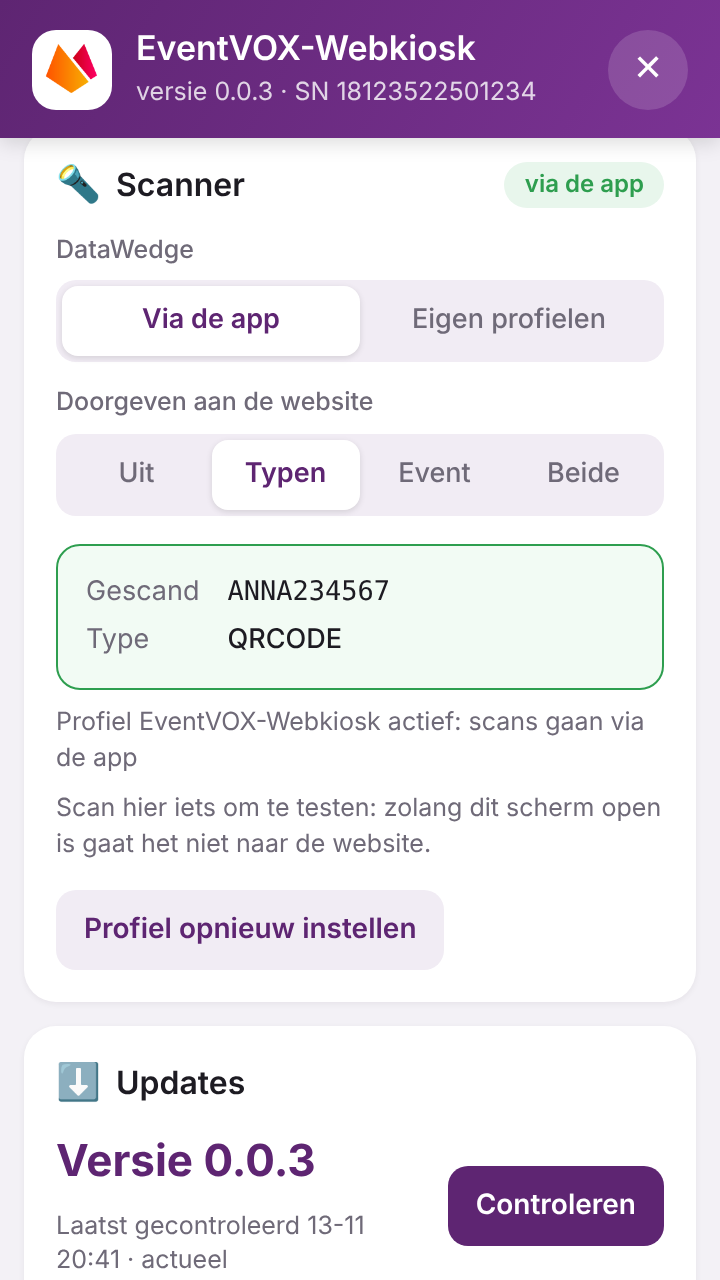
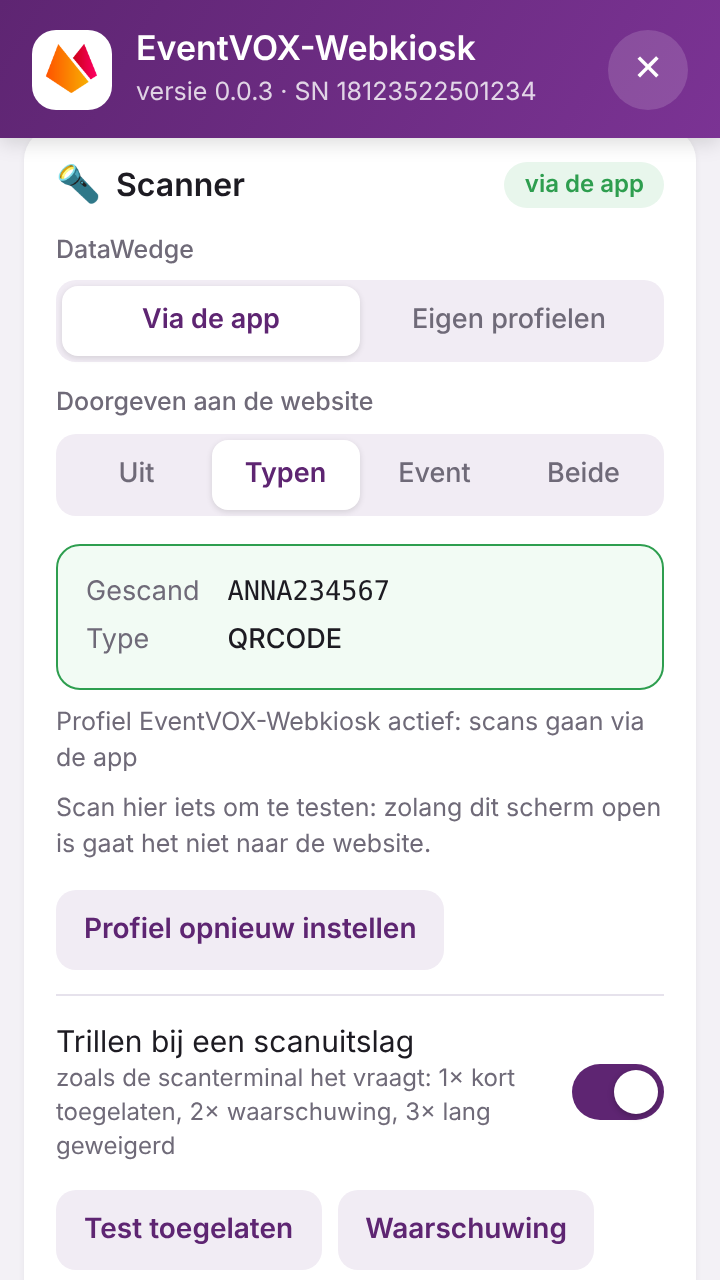
navigator.vibrate via de trilmotor van Android
De scanterminal trilt per uitslag (navigator.vibrate). Een WebView trilt alleen
na een tik op de pagina en met de VIBRATE-toestemming; een scan met DataWedge of
NFC is geen tik. De app levert navigator.vibrate nu zelf (WebKiosk.vibrate,
patroon zoals op het web, max 10 s per stap en 32 stappen). Uit te zetten met
vibrate=false of in het beheerscherm (Scanner), met testknoppen voor de
patronen van de scanterminal. Getest met de echte scanterminal: [70] bij
toegelaten, [350,150,350,150,350] bij geweigerd.

Claude-Session: https://claude.ai/code/session_01XbTwMgGc6w6z84iXdLw6t1

Changed region(s): [[0.0611, 0.7812, 0.7028, 1.0], [0.4889, 0.9062, 0.9472, 1.0], [0.7944, 0.8125, 0.9167, 0.875]]

diff --git a/app/assets/admin.html b/app/assets/admin.html
@@ -98,6 +98,12 @@
       <p class="hint" id="scan-status"></p>
       <p class="hint">Scan hier iets om te testen: zolang dit scherm open is gaat het niet naar de website.</p>
       <div class="row"><button class="btn" data-action="dataWedge">Profiel opnieuw instellen</button></div>
+      <div class="toggle-row"><span>Trillen bij een scanuitslag<small>zoals de scanterminal het vraagt: 1× kort toegelaten, 2× waarschuwing, 3× lang geweigerd</small></span><label class="sw"><input type="checkbox" data-setting="vibrate"><i></i></label></div>
+      <div class="row">
+        <button class="btn" data-action="vibrateTest" data-arg="ok">Test toegelaten</button>
+        <button class="btn" data-action="vibrateTest" data-arg="warning">Waarschuwing</button>
+        <button class="btn" data-action="vibrateTest" data-arg="error">Geweigerd</button>
+      </div>
     </div>
 
     <div class="card">

diff --git a/app/src/nl/webkiosk/MainActivity.java b/app/src/nl/webkiosk/MainActivity.java
@@ -114,13 +114,13 @@ public class MainActivity extends Activity {
             }
             @Override public void onPageStarted(WebView v, String url, android.graphics.Bitmap f) {
                 pageError = false;
-                v.evaluateJavascript(BATTERY_POLYFILL, null); // zo vroeg mogelijk: vóór de scripts van de pagina
+                v.evaluateJavascript(BATTERY_POLYFILL + VIBRATE_POLYFILL, null); // zo vroeg mogelijk: vóór de scripts van de pagina
             }
             @Override public void onPageCommitVisible(WebView v, String url) {
-                v.evaluateJavascript(BATTERY_POLYFILL, null);
+                v.evaluateJavascript(BATTERY_POLYFILL + VIBRATE_POLYFILL, null);
             }
             @Override public void onPageFinished(WebView v, String url) {
-                v.evaluateJavascript(BATTERY_POLYFILL, null);
+                v.evaluateJavascript(BATTERY_POLYFILL + VIBRATE_POLYFILL, null);
                 focusWeb();
             }
             @SuppressWarnings("deprecation")
@@ -146,6 +146,8 @@ public class MainActivity extends Activity {
             @JavascriptInterface public boolean nfcEnabled() { return nfc != null && nfc.isEnabled(); }
             @JavascriptInterface public String getBattery() { return batteryJson(lastBattery).toString(); }
             @JavascriptInterface public String getSerial() { return serial(); }
+            /** pattern: JSON-array in ms (aan, uit, aan, ...) of één getal; [] of 0 stopt het trillen. */
+            @JavascriptInterface public boolean vibrate(String pattern) { return doVibrate(pattern); }
             @JavascriptInterface public String getDeviceInfo() {
                 JSONObject o = new JSONObject();
                 try {
@@ -217,7 +219,7 @@ public class MainActivity extends Activity {
                 String v = p.getProperty(key);
                 if (v != null && !v.trim().isEmpty()) e.putString(key, v.trim());
             }
-            for (String key : new String[]{"keep_screen_on", "ignore_ssl_errors"}) {
+            for (String key : new String[]{"keep_screen_on", "ignore_ssl_errors", "vibrate"}) {
                 String v = p.getProperty(key);
                 if (v != null) e.putBoolean(key, Boolean.parseBoolean(v.trim()));
             }
@@ -374,6 +376,22 @@ public class MainActivity extends Activity {
         int min = prefs.getInt("reload_minutes", 0);
         if (min > 0) handler.postDelayed(periodicReload, min * 60000L);
     }
+
+    /**
+     * navigator.vibrate via de trilmotor van Android (WebKiosk.vibrate), zoals de EventVOX-scanterminal hem per uitslag
+     * aanroept (js/scan-texts.js VIBRATE). De WebView zelf trilt alleen na een tik op de pagina en met de VIBRATE-
+     * toestemming; een scan met DataWedge of NFC is geen tik, dus zonder dit zou er niets trillen. Elke waarde wordt
+     * 0-10000 ms, hoogstens 32 stappen, zoals in Chrome.
+     */
+    private static final String VIBRATE_POLYFILL =
+        "(function(){"
+          + "if(!window.WebKiosk||typeof WebKiosk.vibrate!=='function'||window.__wkVibrate)return;window.__wkVibrate=1;"
+          + "var vib=function(p){try{var a=Array.isArray(p)?p:[p];"
+          + "a=a.slice(0,32).map(function(x){x=Number(x);return isFinite(x)&&x>0?Math.min(Math.round(x),10000):0;});"
+          + "return WebKiosk.vibrate(JSON.stringify(a))!==false;}catch(e){return false;}};"
+          + "try{Object.defineProperty(Navigator.prototype,'vibrate',{value:vib,configurable:true,writable:true});}catch(e){}"
+          + "try{Object.defineProperty(navigator,'vibrate',{value:vib,configurable:true,writable:true});}catch(e){navigator.vibrate=vib;}"
+          + "})();";
 
     /**
      * Battery Status API op basis van Android's BatteryManager (via WebKiosk.getBattery), ook als de WebView hem niet heeft.
@@ -703,6 +721,34 @@ public class MainActivity extends Activity {
             web.evaluateJavascript(js, null);
         }
         if (mode.equals("keyboard") || mode.equals("both")) typeText(kbValue, prefs.getBoolean("nfc_send_enter", true));
+    }
+
+    // ---------- trillen ----------
+
+    /** Trillen volgens een webpatroon [aan, uit, aan, ...] (ms); uit met vibrate=false in de config of het beheerscherm. */
+    @SuppressWarnings("deprecation")
+    private boolean doVibrate(String json) {
+        try {
+            android.os.Vibrator v = (android.os.Vibrator) getSystemService(VIBRATOR_SERVICE);
+            if (v == null || !v.hasVibrator()) return false;
+            JSONArray a;
+            String t = json == null ? "" : json.trim();
+            a = t.startsWith("[") ? new JSONArray(t) : new JSONArray().put(t.isEmpty() ? 0 : Double.parseDouble(t));
+            boolean any = false;
+            long[] pattern = new long[a.length() + 1]; // Android: eerst een wachttijd, dan aan/uit
+            for (int i = 0; i < a.length() && i < 32; i++) {
+                long ms = Math.max(0, Math.min(10000, Math.round(a.optDouble(i, 0))));
+                pattern[i + 1] = ms;
+                if (i % 2 == 0 && ms > 0) any = true;
+            }
+            v.cancel();
+            if (!any) return true; // 0 of []: stoppen
+            if (!prefs.getBoolean("vibrate", true)) return true; // uitgezet: de pagina hoeft dat niet te weten
+            v.vibrate(pattern, -1);
+            return true;
+        } catch (Exception e) {
+            return false;
+        }
     }
 
     // ---------- toetsenbord-focus ----------
@@ -1071,6 +1117,7 @@ public class MainActivity extends Activity {
         st.put("keep_screen_on", prefs.getBoolean("keep_screen_on", false));
         st.put("reload_minutes", prefs.getInt("reload_minutes", 0));
         st.put("ignore_ssl_errors", prefs.getBoolean("ignore_ssl_errors", false));
+        st.put("vibrate", prefs.getBoolean("vibrate", true));
         st.put("menu_taps", prefs.getInt("menu_taps", 10));
         st.put("scan_mode", scanMode());
         st.put("datawedge", manageDataWedge() ? "app" : "off");
@@ -1144,7 +1191,7 @@ public class MainActivity extends Activity {
     }
 
     private static final java.util.List<String> STRING_KEYS = java.util.Arrays.asList("nfc_mode", "nfc_uid_format", "nfc_keyboard_value", "scan_mode", "datawedge");
-    private static final java.util.List<String> BOOL_KEYS = java.util.Arrays.asList("nfc_send_enter", "auto_update", "keep_screen_on", "ignore_ssl_errors");
+    private static final java.util.List<String> BOOL_KEYS = java.util.Arrays.asList("nfc_send_enter", "auto_update", "keep_screen_on", "ignore_ssl_errors", "vibrate");
     private static final java.util.List<String> INT_KEYS = java.util.Arrays.asList("nfc_refresh_seconds", "update_check_hours", "reload_minutes", "menu_taps");
 
     /** Eén instelling opslaan en toepassen; geeft een foutmelding of null. */
@@ -1200,6 +1247,12 @@ public class MainActivity extends Activity {
     private void adminAction(String name, String arg) {
         switch (name) {
             case "close": hideAdmin(); break;
+            case "vibrateTest":
+                // de patronen van de scanterminal: toegelaten, waarschuwing, geweigerd
+                String pat = "warning".equals(arg) ? "[90,110,90]" : "error".equals(arg) ? "[350,150,350,150,350]" : "[70]";
+                if (!prefs.getBoolean("vibrate", true)) adminToast("Trillen staat uit");
+                else if (!doVibrate(pat)) adminToast("Dit toestel kan niet trillen");
+                break;
             case "dataWedge":
                 setupDataWedge();
                 adminToast("DataWedge-profiel wordt ingesteld");

diff --git a/README.md b/README.md
@@ -137,6 +137,12 @@ bij elke heartbeat van een terminal; de terminalpagina in EventVOX toont daaruit
 (bv. *EventVOX-Webkiosk 0.0.1*). Wil je de versie ook in de URL: gebruik `{version}`, bv.
 `https://eventvox.nl/scanterminal?serial={serial}&app={version}`.
 
+## Trillen
+De app levert `navigator.vibrate()` zelf, via de trilmotor van Android. De EventVOX-scanterminal roept hem bij elke
+uitslag aan (1× kort toegelaten, 2× kort waarschuwing, 3× lang geweigerd); in een gewone WebView zou dat niet trillen,
+want die trilt alleen na een tik op de pagina, en een scan met DataWedge of NFC is geen tik. Uit te zetten met
+`vibrate=false` of in het beheerscherm (Scanner), met testknoppen voor de drie patronen.
+
 ## Accu-slijtage in EventVOX
 Op een Zebra geeft Android extra gegevens over de accu zelf. De app zet die in `WebKiosk.getBattery().pack`
 (gezondheid %, laadcycli, vervangadvies van Zebra, onderdeel- en serienummer, productiedatum, capaciteit; alleen wat het
